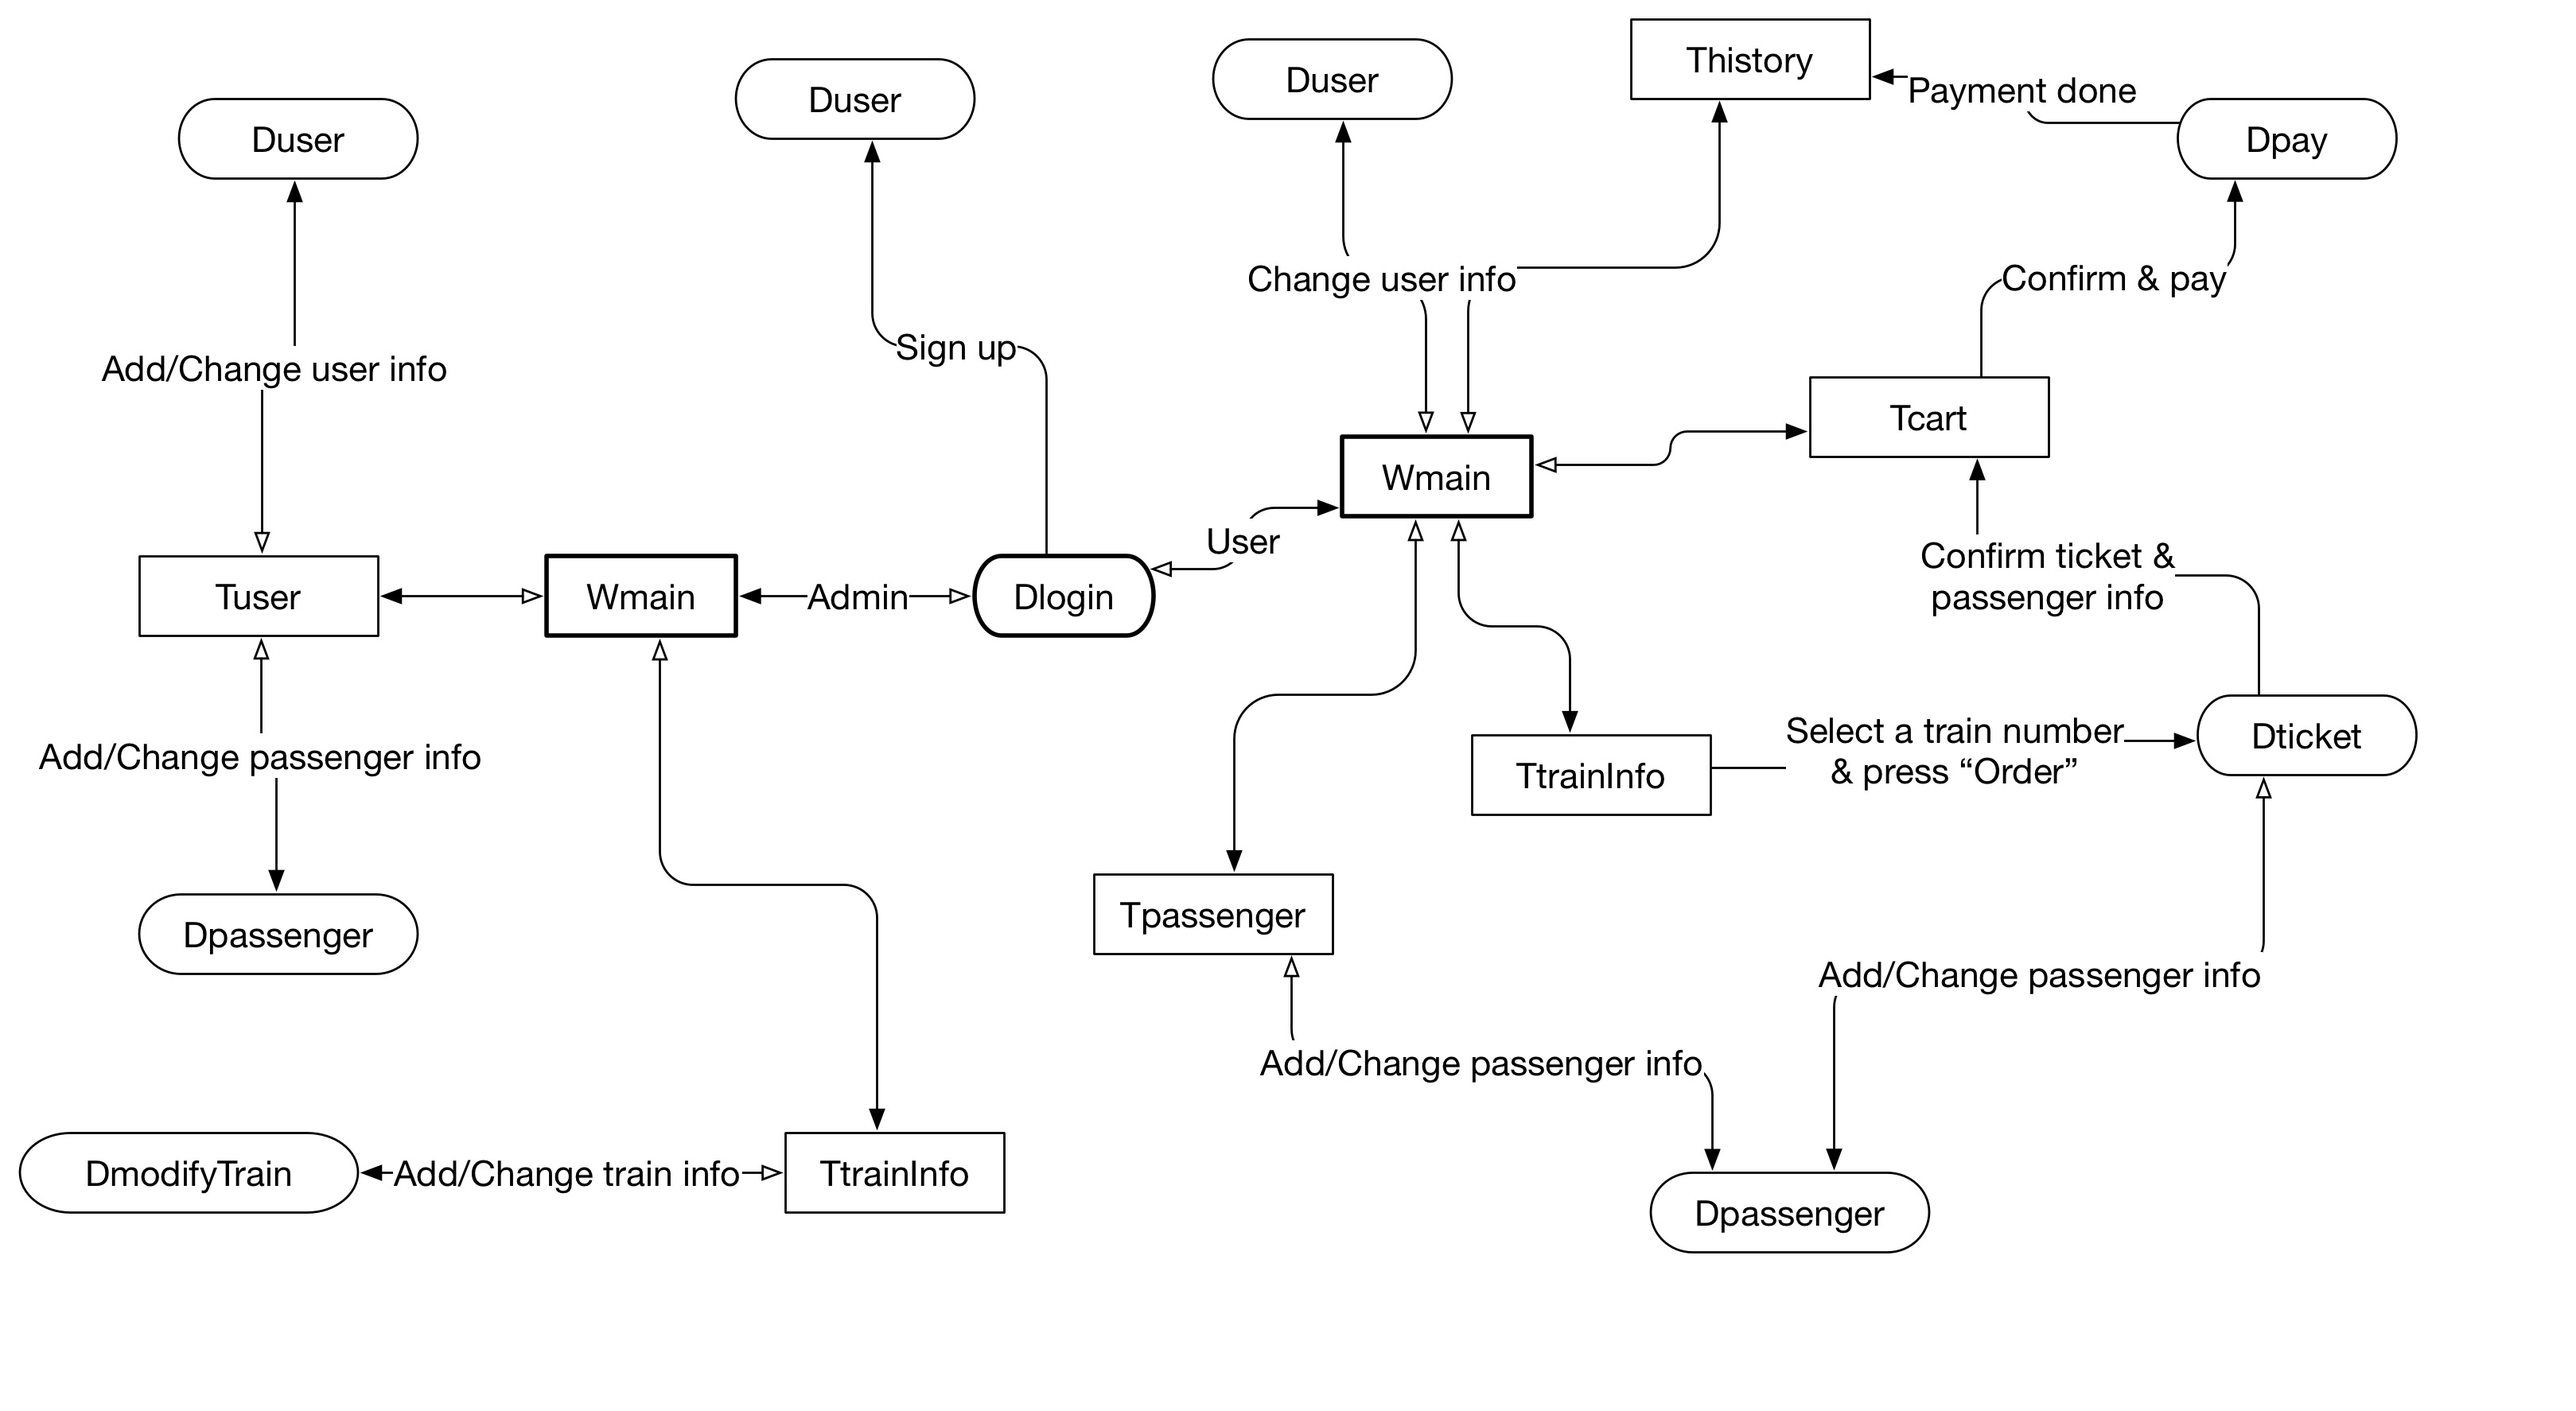
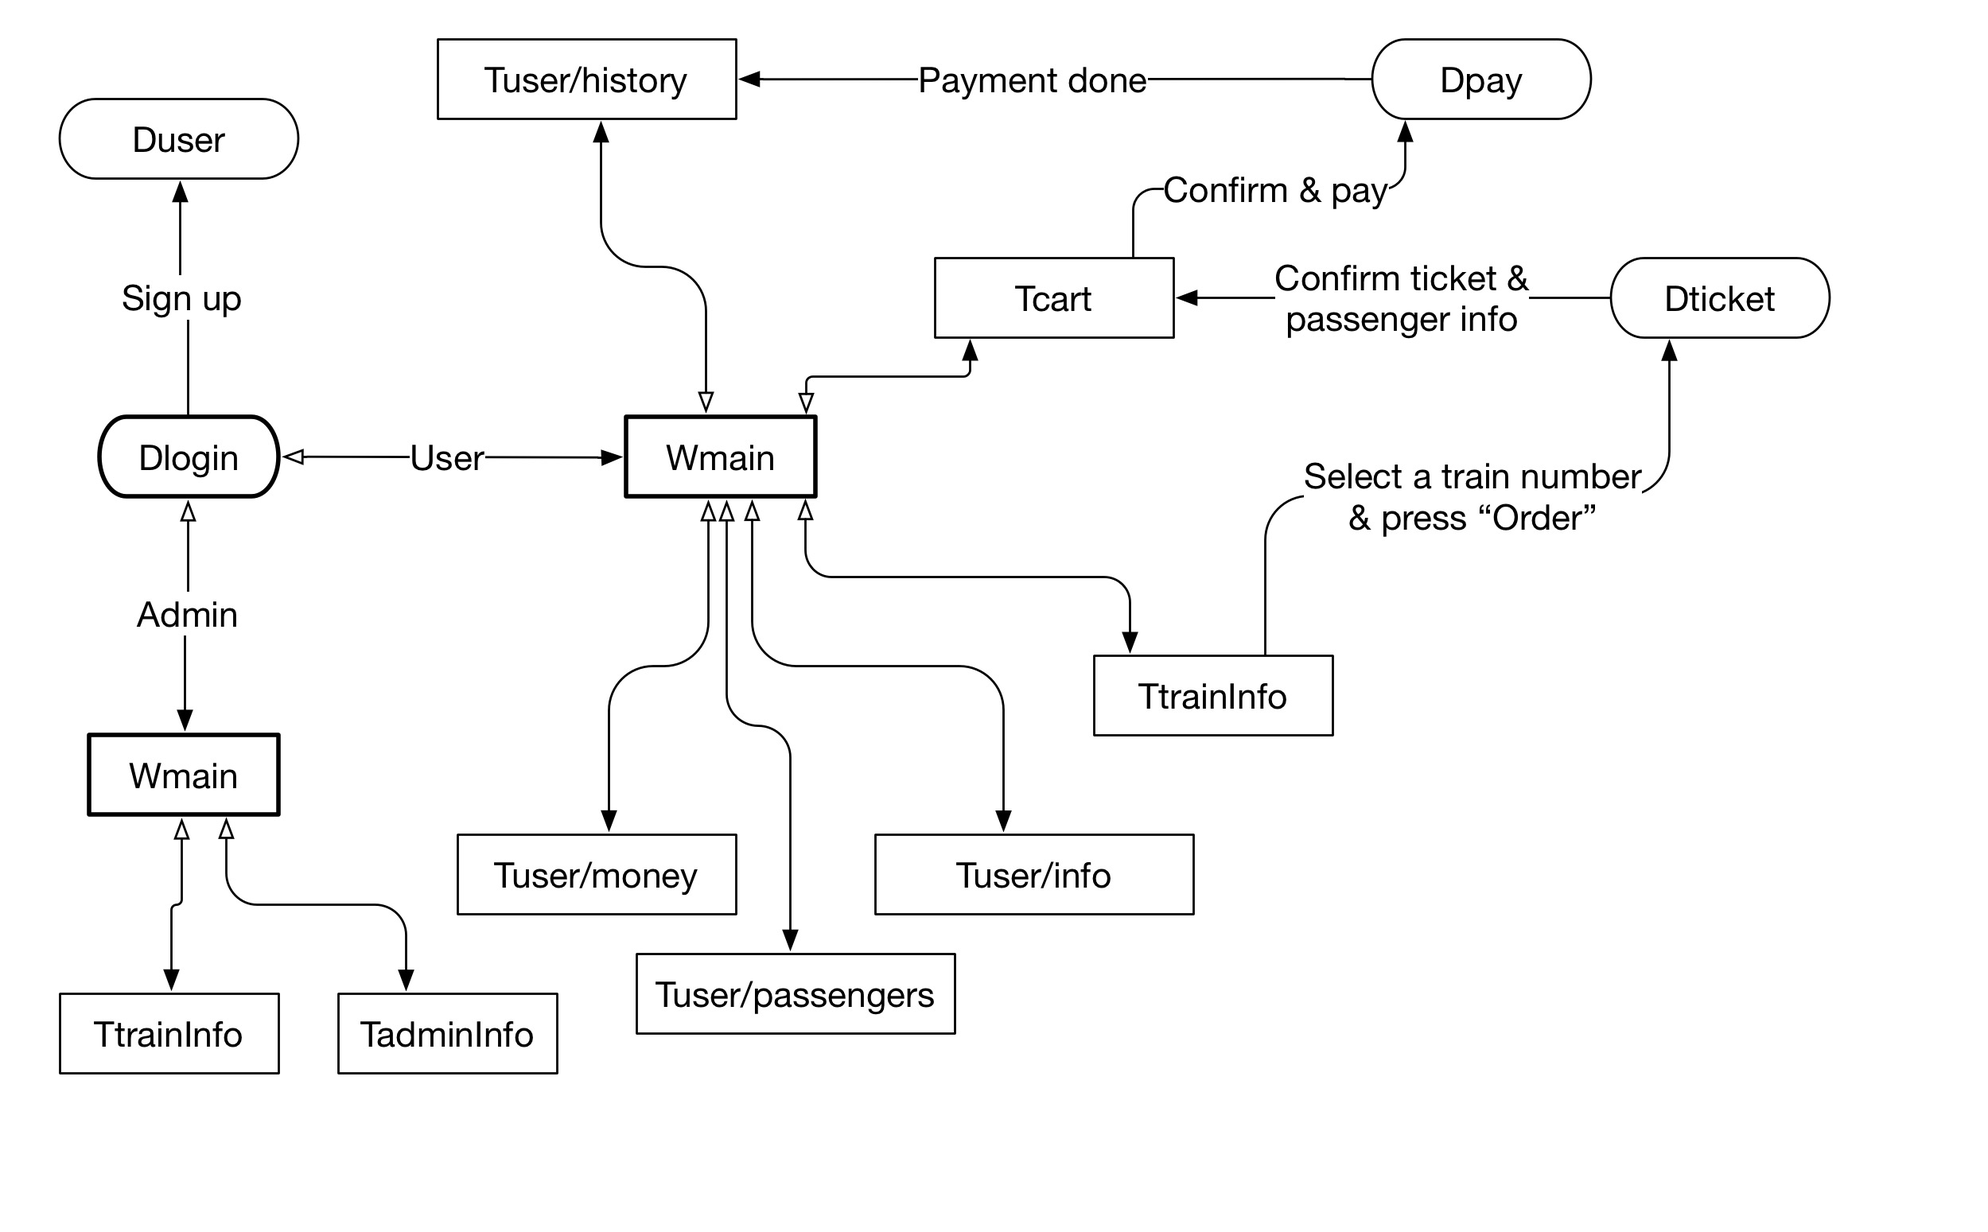
feat: add uml and part of ticketoffice

diff --git a/MainProgram/train.h b/MainProgram/train.h
@@ -1,0 +1,73 @@
+#ifndef TRAIN_H
+#define TRAIN_H
+#include "spot.h"
+#include <QString>
+#include <QVector>
+#include <QtMath>
+
+const int SEAT_COUNT = 120;//每个车次的座位/床位数
+
+class Train {
+public:
+    Train();
+    int occupiedCount();//返回已被预订的座位/床位数
+    int vacantCount();//返回未被预订的座位/床位数
+private:
+    int index;//对应于数据库中的索引编号
+    QString number;//车次编号
+    TrainType type;//车次类型（特快/普快/高铁）
+    Station &origin, &destination;//始发站、终点站
+    Time departureTime, arrivalTime;//出发、到达时刻
+    Price price;//票价
+};
+
+//硬座车类
+class SeatTrain :public Train {
+public:
+    SeatTrain();
+private:
+    QVector<Seat> seats;//座位对象数组
+};
+
+//卧铺车类
+class BedTrain :public Train {
+public:
+    BedTrain();
+private:
+    QVector<Bed> beds;//床位对象数组
+};
+
+//车次类型（特快/普快/高铁）
+enum TrainType {
+    T, K, G
+};
+
+//车站类
+class Station {
+private:
+    int index;//对应于数据库中的索引编号
+    QString stationName;//车站名称
+};
+
+//时刻类
+class Time {
+public:
+    int getHour();
+    int getMinute();
+    QString print();//按标准格式打印
+private:
+    int hour, minute;
+};
+
+//价格类
+class Price {
+public:
+    double getReal();//返回实型价格
+    int getYuan();//返回价格的整数部分
+    int getFen();//返回价格的小数部分，如12.34元返回34
+    QString print();//按标准格式打印
+private:
+    int dataFen;//以分为单位的价格数据，如1234表示12.34元
+};
+
+#endif // TRAIN_H

diff --git a/MainProgram/spot.h b/MainProgram/spot.h
@@ -1,0 +1,43 @@
+#ifndef SPOT_H
+#define SPOT_H
+#include <QString>
+
+//座位/床位基类
+class Spot
+{
+public:
+    Spot();
+    bool isOccupied();//返回是否被预订
+protected:
+    int index;//座位/床位编号，在1~120内取值
+    bool occupied;//是否被预订
+    int row;//第几排
+};
+
+//座位类
+class Seat :public Spot {
+public:
+    QString print();//按标准格式打印
+private:
+    Column column;//第几列
+};
+
+//床位类
+class Bed :public Spot {
+public:
+    QString print();//按标准格式打印
+private:
+    Level level;//上中下铺
+};
+
+//座位的列
+enum Column {
+    A, B, C, D, E, F
+};
+
+//床位的上中下铺
+enum Level {
+    Bottom, Middle, Top
+};
+
+#endif // SPOT_H

diff --git a/MainProgram/ticketoffice.h b/MainProgram/ticketoffice.h
@@ -1,0 +1,24 @@
+#ifndef TICKETOFFICE_H
+#define TICKETOFFICE_H
+#include <QString>
+
+class TicketOffice
+{
+public:
+    TicketOffice();
+};
+
+//火车类型
+enum TrainType {
+    TSeat, TBed, KSeat, KBed, G
+};
+
+//车次类
+class Train {
+private:
+    int m_index;//
+    QString m_number;
+    TrainType m_type;
+};
+
+#endif // TICKETOFFICE_H

diff --git a/MainProgram/ticket.h b/MainProgram/ticket.h
@@ -1,0 +1,11 @@
+#ifndef TICKET_H
+#define TICKET_H
+
+
+class Ticket
+{
+public:
+    Ticket();
+};
+
+#endif // TICKET_H

diff --git a/MainProgram/ticketoffice.cpp b/MainProgram/ticketoffice.cpp
@@ -1,0 +1,6 @@
+#include "ticketoffice.h"
+
+TicketOffice::TicketOffice()
+{
+
+}

diff --git a/MainProgram/ticket.cpp b/MainProgram/ticket.cpp
@@ -1,0 +1,6 @@
+#include "ticket.h"
+
+Ticket::Ticket()
+{
+
+}

diff --git a/MainProgram/train.cpp b/MainProgram/train.cpp
@@ -1,0 +1,6 @@
+#include "train.h"
+
+Train::Train()
+{
+
+}

diff --git a/MainProgram/spot.cpp b/MainProgram/spot.cpp
@@ -1,0 +1,6 @@
+#include "spot.h"
+
+Spot::Spot()
+{
+
+}
